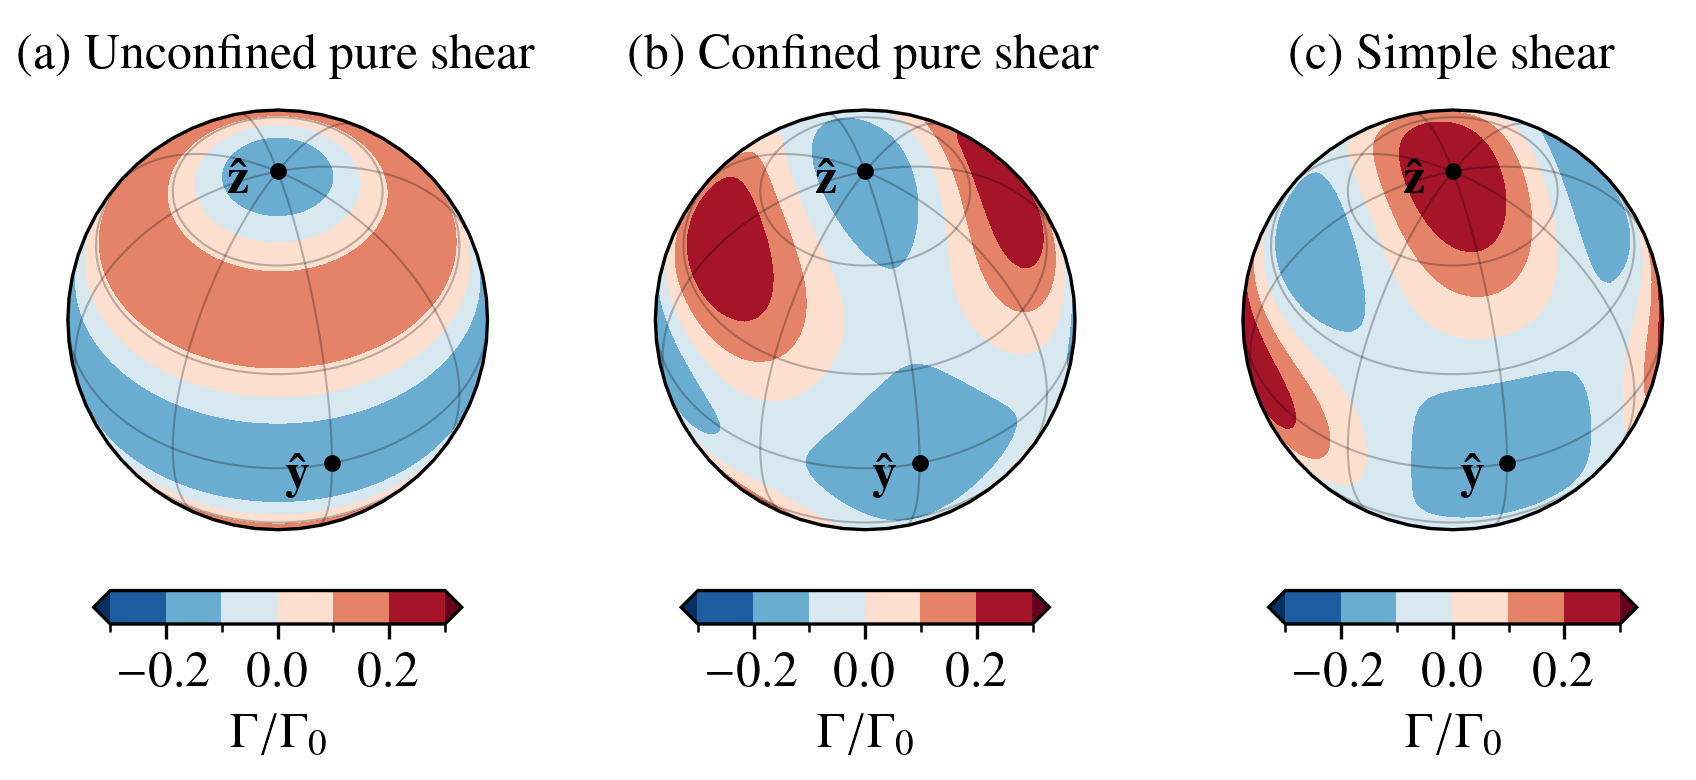
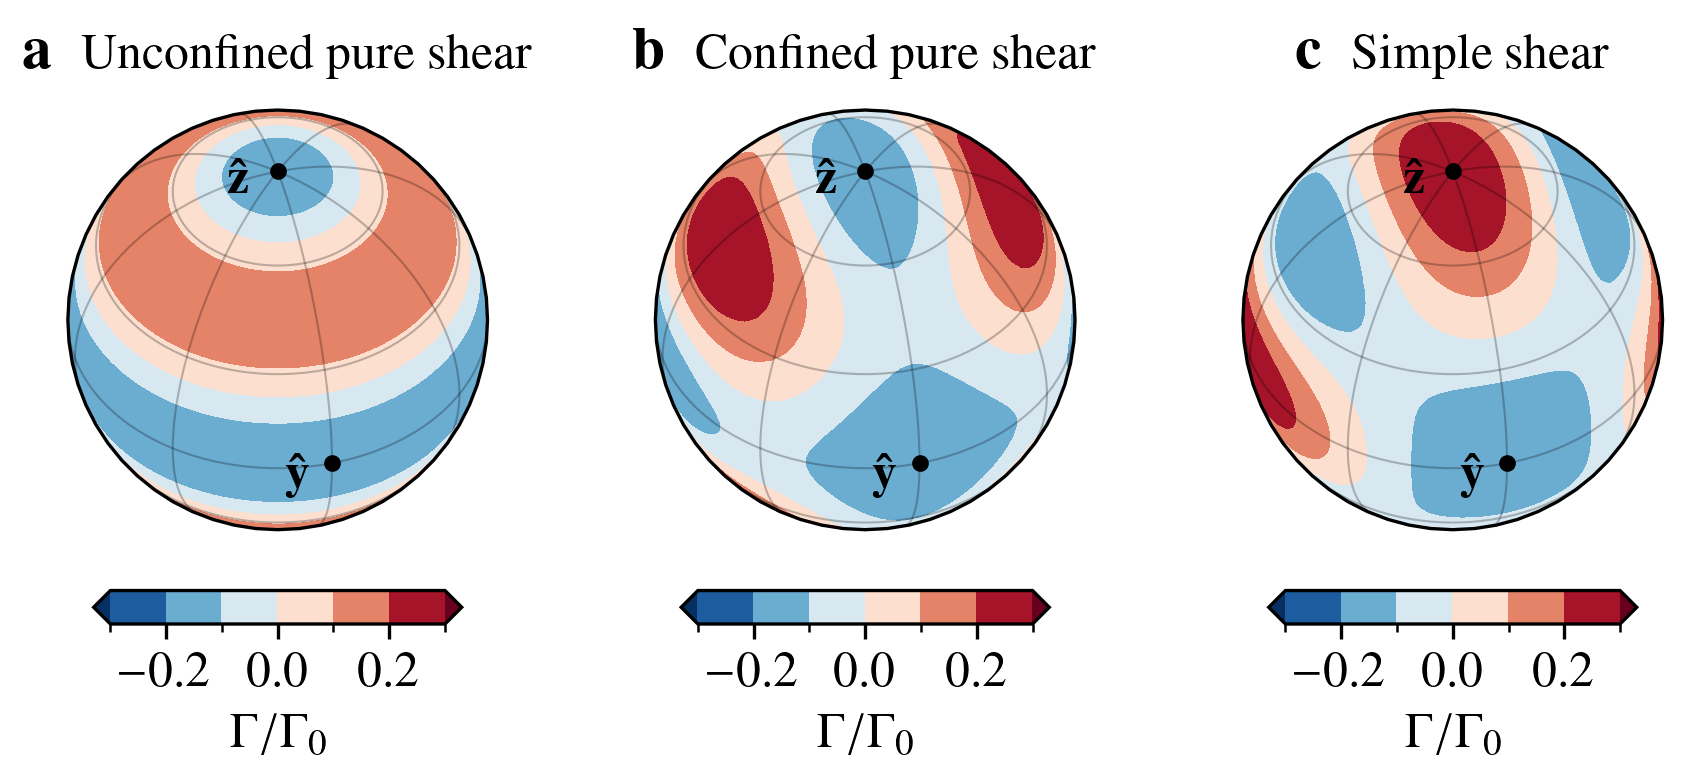
added orthotropic rheology and demo to verify the forward/reverse rheologies are self-consistent

Changed region(s): [[0.0, 0.0308, 0.3125, 0.0923], [0.375, 0.0308, 0.6562, 0.0923], [0.75, 0.0308, 0.9688, 0.0923]]

diff --git a/demo/plot_DDRX_decayrate.py b/demo/plot_DDRX_decayrate.py
@@ -74,16 +74,16 @@ nlm[0]  = 1 # Assume isotropic state for calculating decay rate
 
 ### Plot 1
 tau = np.diag([0.5,0.5,-1]) # Unconfined UC in z
-plot(sf.ddrx_decayrate(nlm, tau), ax1, titlestr=r'(a) Unconfined pure shear')
+plot(sf.ddrx_decayrate(nlm, tau), ax1, titlestr=r'%s Unconfined pure shear'%(r'{\Large \bf a}\,\,'))
 
 ### Plot 2
 tau = np.diag([-1,0,+1]) # Confined UC in z
-plot(sf.ddrx_decayrate(nlm, tau), ax2, titlestr=r'(b) Confined pure shear')
+plot(sf.ddrx_decayrate(nlm, tau), ax2, titlestr=r'%s Confined pure shear'%(r'{\Large \bf b}\,\,'))
 
 ### Plot 3
 tau = np.matrix([[0,0,1],[0,0,0],[1,0,0]]) # SS xz
 #tau = np.matrix([[0,1,0],[1,0,0],[0,0,0]]) # SS xy
-plot(sf.ddrx_decayrate(nlm, tau), ax3, titlestr=r'(c) Simple shear')
+plot(sf.ddrx_decayrate(nlm, tau), ax3, titlestr=r'%s Simple shear'%(r'{\Large \bf c}\,\,'))
 
 #---------
 
